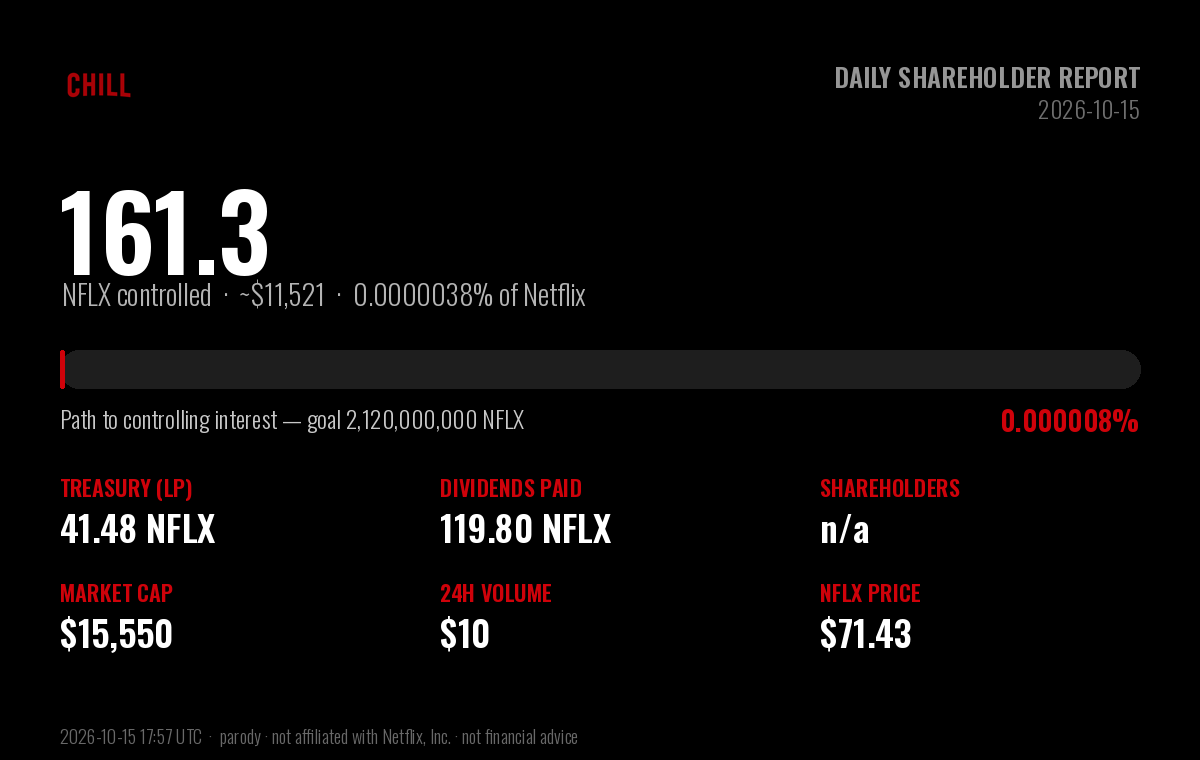
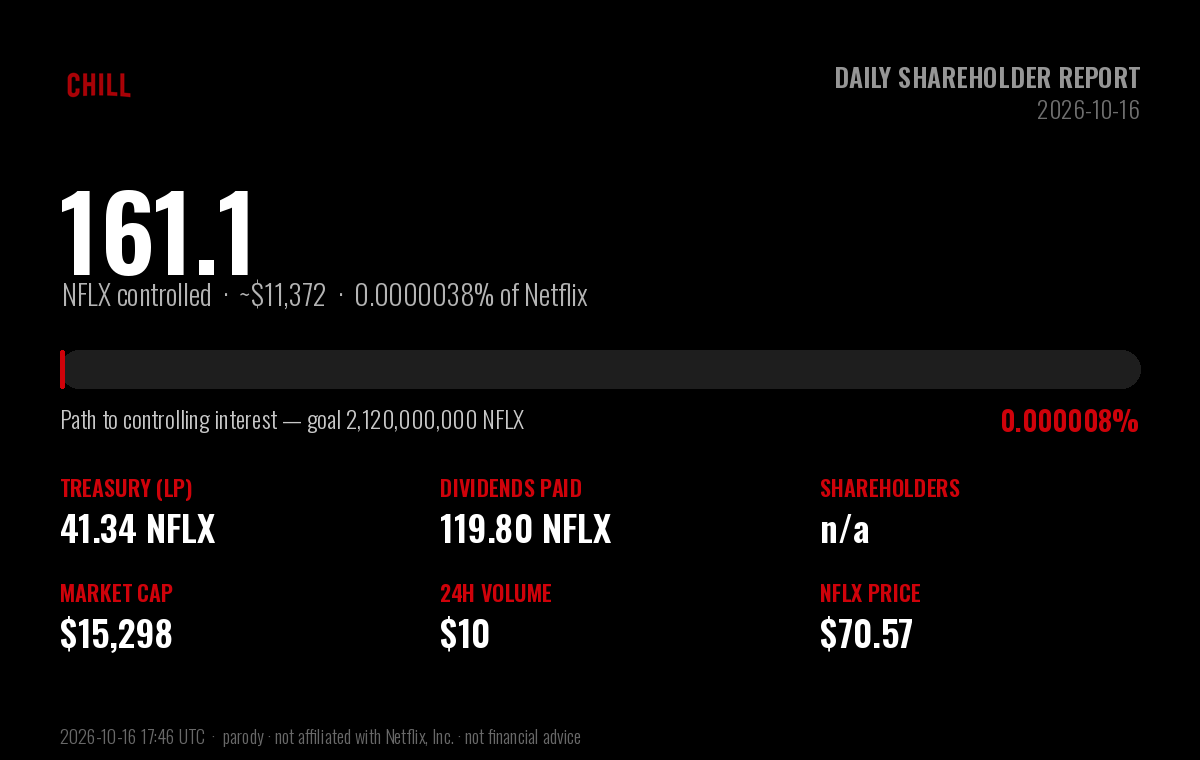
chore: daily $CHILL shareholder report (2026-10-16)

diff --git a/daily-holder-report/README.md b/daily-holder-report/README.md
@@ -1,6 +1,6 @@
 # $CHILL — Daily Shareholder Report
 
-### Netflix and Chill · Report to Shareholders · 2026-10-15
+### Netflix and Chill · Report to Shareholders · 2026-10-16
 
 > **Corporate objective:** acquire a controlling interest in Netflix (NFLX).
 > Netflix has **4,220,000,000** shares outstanding; a majority
@@ -13,8 +13,8 @@
 
 | Metric | Value |
 |---|---|
-| **NFLX under $CHILL control** | **161.28 NFLX** (~$11,521) |
-| Stake in Netflix | 0.000003822% of shares outstanding |
+| **NFLX under $CHILL control** | **161.14 NFLX** (~$11,372) |
+| Stake in Netflix | 0.000003818% of shares outstanding |
 | Progress to controlling interest | 0.0000076% of 2,120,000,000 |
 | Shares remaining to majority | 2,119,999,839 NFLX |
 
@@ -22,19 +22,19 @@
 
 | Holding | NFLX | USD |
 |---|---|---|
-| Treasury (protocol-owned liquidity) | 41.48 | $2,963 |
-| Dividends distributed to shareholders | 119.80 | $8,558 |
-| **Total NFLX controlled** | **161.28** | **$11,521** |
+| Treasury (protocol-owned liquidity) | 41.34 | $2,918 |
+| Dividends distributed to shareholders | 119.80 | $8,455 |
+| **Total NFLX controlled** | **161.14** | **$11,372** |
 
 ## Last 24 hours
 
 | Metric | Value |
 |---|---|
-| Trading volume | 0.13 NFLX (~$10) |
-| Net NFLX accumulated | -0.13 NFLX |
-| Dividends generated | 0.0013 NFLX |
+| Trading volume | 0.14 NFLX (~$10) |
+| Net NFLX accumulated | -0.14 NFLX |
+| Dividends generated | 0.0014 NFLX |
 | Transactions | 1 (0 buys / 1 sells) |
-| $CHILL price change | -0.9% |
+| $CHILL price change | -1.6% |
 
 ## Shareholder & market data
 
@@ -43,23 +43,23 @@
 | Shareholders of record | n/a |
 | Lifetime unique participants | 1820 |
 | Shares outstanding ($CHILL) | 1,000,000,000 |
-| Market capitalization | $15,550 |
-| $CHILL price | $0.00001555 |
-| NFLX price | $71.43 |
-| Lifetime volume | 11,979.87 NFLX (~$855,754) |
-| Lifetime transactions | 8,614 (4,816 buys / 3,798 sells) |
-| Days since IPO (launch) | 88 |
+| Market capitalization | $15,298 |
+| $CHILL price | $0.00001530 |
+| NFLX price | $70.57 |
+| Lifetime volume | 11,980.01 NFLX (~$845,477) |
+| Lifetime transactions | 8,615 (4,816 buys / 3,799 sells) |
+| Days since IPO (launch) | 89 |
 
 ## Per-share metrics
 
 | Metric | Value |
 |---|---|
-| NFLX backing per 1M $CHILL | 0.161279 NFLX |
-| Dividends per 1M $CHILL | 0.119799 NFLX |
+| NFLX backing per 1M $CHILL | 0.161140 NFLX |
+| Dividends per 1M $CHILL | 0.119800 NFLX |
 
 ---
 
-*Report generated 2026-10-15 17:57 UTC · block 89,420,300 · data via the Sentry-Robinhood
+*Report generated 2026-10-16 17:46 UTC · block 90,267,462 · data via the Sentry-Robinhood
 subgraph and Robinhood Chain explorer.*
 
 **Disclaimer:** $CHILL is an independent, community-driven **parody** token. It is
